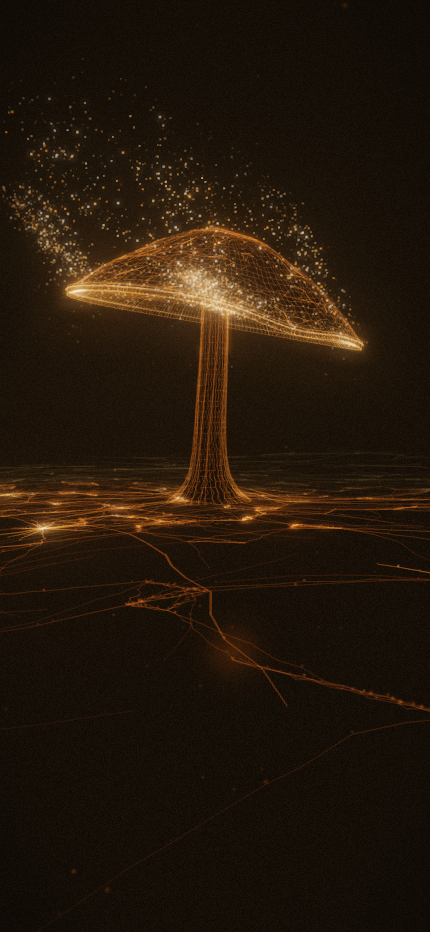
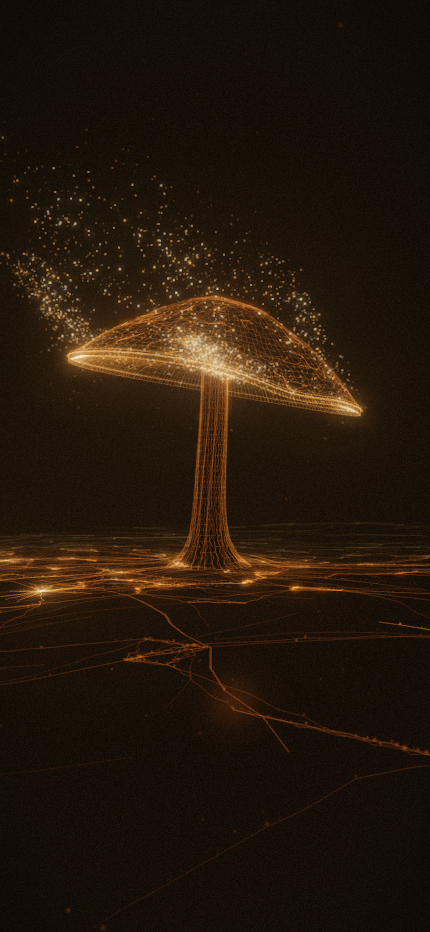
Inspire: the band was never the viewport, it was the nav and the headline
Hannah, on the framing ca7a769 shipped: push the mushroom down a bit so the
page feels more balanced, use your vision to judge where.

D19's construction was right and its ANCHORS were wrong. It centred the cap
between y 0 — the top of the viewport — and y 608.4 — the top of the copy
block's PADDING box. Neither is a thing a viewer can see. The page draws a
nav whose lowest element bottoms at 66.1, and the copy's first visible mark
is the headline glyph at 641.0 (the h2's rect starts at 634.0; the 7.0 px is
the font's internal leading). Both errors pushed the midpoint the same way,
so they added. Anchored to what the page draws the band is [66.1, 641.0],
its midpoint is 353.6, and that is 49.3 px below where the cap was. Not a
taste correction on top of a rule — the same rule with its inputs read off
the rendered frame instead of off the CSS. The check that the band is right:
the frame's two voids come out equal to a tenth of a pixel, 179.3 px of sky
above the cap and 179.4 px of dark between its rim and the headline.

Not further, and that was measured rather than assumed. The subject's
luminance-weighted centroid — mushroom and plume, everything above the
horizon — sits 61 px higher than the cap's bbox centre at every offset
tested, so centring the INK would want the cap at 414, sitting on the copy.
That criterion over-weights a diffuse scatter that deliberately spills off
the top edge. +30 / +50 / +70 / +90 were all read on screen: +90 leaves 139
[…]

Changed region(s): [[0.0, 0.1245, 1.0, 0.809], [0.7256, 0.7468, 1.0, 0.809], [0.3023, 0.1556, 0.3326, 0.1867]]

diff --git a/journey/chapters/inspire/camera.js b/journey/chapters/inspire/camera.js
@@ -109,9 +109,37 @@ const V = (x, y, z) => new THREE.Vector3(x, y, z);
 // 1.00 / 0.21 / 0.19.
 //
 // The target is the exact solve, not a hand-nudge: a 2x2 Newton on the gaze's
-// (right, up) offsets against the projected cap silhouette's bbox centre,
-// converged to 0.0 px horizontal / 0.1 px vertical at 1440x900.
-export const INSPIRE = { az: 115 * DEG, r: 11, y: 2, target: V(2.3349, 2.0903, -1.1016), fov: 40 };
+// (right, up) offsets against the projected cap silhouette's bbox centre.
+//
+// D21 (Hannah, 2026-08-07): "for the inspire section, can you push the
+// mushroom down a bit so the page feels more balanced." D19's construction was
+// right and its ANCHORS were wrong. It centred the cap between the top of the
+// VIEWPORT (y 0) and the top of the copy BLOCK (y 608.4, which is the block's
+// padding box, not its text). Neither edge is a thing a viewer sees. What a
+// viewer sees is the nav — logo / links / pills, bottom edge y 66.1 — and the
+// first glyph of the headline, whose cap-height top is y 641.0 (the h2's rect
+// starts at 634.0; the 7.0 px is the font's internal leading, and it scales
+// with font-size: 0.1568 x fs, which is how the other viewports are derived).
+// Anchored to the furniture the page actually draws, the band is [66.1, 641.0]
+// and its midpoint is 353.5 — 49.3 px below where D19 put the cap. Same rule,
+// honest anchors, and the frame's two voids come out EQUAL: 179.4 px of sky
+// above the cap, 179.4 px of dark between the cap's rim and the headline.
+//
+// WHY NOT FURTHER, even though the plume is all above the cap. The subject's
+// luminance-weighted centroid (mushroom + plume, everything above the horizon)
+// sits 61 px HIGHER than the cap's bbox centre at every offset tested, so
+// centring the INK rather than the head would want the cap at y 414 — sitting
+// on the headline. Measured at +30 / +50 / +70 / +90 px and read on screen:
+// +90 crowds the copy (139 px of clearance) and shortens the stipe to nothing,
+// +70 inverts the two voids (200 above / 159 below). The plume is context that
+// deliberately spills off the top edge; the head is the subject. Anchor the
+// head, and let the plume be air.
+//
+// IT ALSO REPAYS SOME OF D19's GROUND. Aiming higher pitches the horizon back
+// DOWN the frame: 463.3 -> 511.7 at 1440x900, recovering 48 of the 170 px D19
+// spent, and the lower-band mean luminance falls 24.80 -> 24.62. Light lost
+// off the top edge falls with it (mean of rows 0-3: 18.39 -> 16.63).
+export const INSPIRE = { az: 115 * DEG, r: 11, y: 2, target: V(2.3371, 2.4199, -1.1052), fov: 40 };
 
 // The gaze's mid-swing waypoint (was the old "early pin" target): the cap,
 // biased a touch toward the stream side so the visible plume never leaves
@@ -318,9 +346,37 @@ export const CAMERA = {
   // rises 63. That is forced — the approved Inspire rest frames it at
   // y 328 and settled Connect k1 at y 341 — so the vertical turns once, at
   // Connect's own key, and nothing here can remove it without moving a rest.
+  //
+  // ------------------------------------------------------------------
+  // D21 RE-DERIVE (2026-08-07, Hannah: "push the mushroom down a bit so the
+  // page feels more balanced").
+  // ------------------------------------------------------------------
+  // Only the rest's GAZE moved again, so the same thing is true as at D19:
+  // a keyed spline does not care why an endpoint moved. Both exit keys are
+  // re-derived from the D20 rule above with the new rest, and NOTHING ELSE
+  // changes — every `pos` is byte-identical for the third re-key running,
+  // `d` stays 8.55 / 8.69 (the ladder rebases to 8.4253 -> 8.55 -> 8.69 ->
+  // 8.788 and rounds to the same digits), and both `fov` values are
+  // untouched at 41.63 / 44.49 because fov = lerp(40, 48, s) never read the
+  // rest's gaze. Only `dy` moves, and only because the rest's own dy did:
+  //
+  //   dx  rest -0.079 -> -0.095   (the cap is still on the frame centreline)
+  //   dy  rest +5.354 -> +3.112   (the cap now sits lower in the rest frame)
+  //
+  // The decode was re-proved before it was re-used: running the rule on the
+  // SHIPPED rest reproduces the shipped key targets to all four decimals
+  // (2.0571 / 2.1443 / -0.8376 and 1.2152 / 2.2287 / -0.8497), and the
+  // connect-side endpoint comes back at -12.3239 / +6.0850 against the
+  // -12.324 / 6.085 written above.
+  //
+  // A RESIDUAL D20 RECORDED AS FORCED IS NOW GONE. D20 had to accept that
+  // the cap SINKS ~13 px before it rises, because the approved rest framed
+  // it above Connect's settled first key and the vertical had to turn once.
+  // The rest is now BELOW Connect's key, so dy climbs 3.112 -> 6.085 with
+  // nothing to unwind: the cap rises monotonically across the whole leg.
   keys: [
-    { t: 0.5,                pos: V(9.9694, 2.0000, -4.6488), tgt: V(2.3349, 2.0903, -1.1016), fov: 40,    hold: true, note: 'inspire-rest' },  // p 0.260  az 115.0  d 8.42  dx  -0.08
-    { t: 0.7166666666666667, pos: V(10.4866, 2.2495, -2.2641), tgt: V(2.0571, 2.1443, -0.8376), fov: 41.63, note: 'inspire-rest-drift' },       // p 0.312  az 102.2  d 8.55  dx  -2.58  yaw -80.4
-    { t: 0.9249999999999999, pos: V(9.5128, 2.6825, 1.6920), tgt: V(1.2152, 2.2287, -0.8497), fov: 44.49 },                                     // p 0.362  az  79.9  d 8.69  dx  -6.95  yaw -107.0
+    { t: 0.5,                pos: V(9.9694, 2.0000, -4.6488), tgt: V(2.3371, 2.4199, -1.1052), fov: 40,    hold: true, note: 'inspire-rest' },  // p 0.260  az 115.0  d 8.43  dx  -0.10  dy +3.11
+    { t: 0.7166666666666667, pos: V(10.4866, 2.2495, -2.2641), tgt: V(2.0576, 2.4106, -0.8396), fov: 41.63, note: 'inspire-rest-drift' },       // p 0.312  az 102.2  d 8.55  dx  -2.59  dy +3.72  yaw -80.4
+    { t: 0.9249999999999999, pos: V(9.5128, 2.6825, 1.6920), tgt: V(1.2093, 2.3779, -0.8526), fov: 44.49 },                                     // p 0.362  az  79.9  d 8.69  dx  -6.95  dy +4.78  yaw -107.0
   ],
 };

diff --git a/journey/portrait.js b/journey/portrait.js
@@ -109,7 +109,30 @@ const KEYS = [
   // evenly, +23.8 px at 375x812 and -23.8 px at 430x932, which is the smallest
   // worst case available to a single pose. tgtRight comes back a hair,
   // 0.30 -> 0.258, for the 2.8 px the cap sat left of the copy's centre.
-  { p: 0.260, back: 1.50, rise: -0.50, truck: -0.30, tgtUp: -1.378, tgtRight: 0.258, fov: 13 },
+  //
+  // D21 (2026-08-07) re-anchors the landscape band to the furniture the page
+  // actually draws — nav bottom to headline glyph top, not viewport top to the
+  // copy block's padding — and pushes the cap 49.3 px down. Portrait inherits
+  // the landscape target, so it moved down by itself and this offset has to
+  // come back up to meet the SAME re-anchored band in the tall frames.
+  //
+  // The portrait band is NOT the landscape one scaled. Its bottom is the
+  // headline's first glyph, read off the rendered frame: y 489.0 at 375x812
+  // and 659.0 at 430x932. Its top is y 93.1 in BOTH — and it is the active
+  // nav link's underline, not the pills. The nav stacks in portrait (pills on
+  // top at 49.7, links below at 85.1) where it is one row in landscape, so the
+  // lowest thing the nav draws is the 1 px rule the `.active` ::after hangs
+  // 8 px under its link. In landscape the same rule sits at 64.6, above the
+  // pills' 66.1, and the pills win. Midpoints: 291.05 and 376.05.
+  //
+  // Balanced the same way and by the same argument, tgtUp -1.378 -> -0.856:
+  // +19.5 px at 375x812 and -19.6 px at 430x932. That is a SMALLER worst case
+  // than the pose it replaces (±23.8), which is the one piece of luck in this
+  // edit — the two phone sizes' band midpoints sit closer together in
+  // frame-fraction terms (0.358 vs 0.403) than their copy tops did (0.564 vs
+  // 0.674). tgtRight is untouched: the horizontal never moved, and the cap is
+  // still 187.17 / 214.62 against frame centres 187.5 / 215.
+  { p: 0.260, back: 1.50, rise: -0.50, truck: -0.30, tgtUp: -0.856, tgtRight: 0.258, fov: 13 },
 
   // Ground-descent approach (D16 restage; retuned 2026-08-04 for the
   // monotone Inspire->Connect zoom-out): the landscape leg no longer pushes

diff --git a/journey-v6-plan/07-chapter-inspire.md b/journey-v6-plan/07-chapter-inspire.md
@@ -1140,3 +1140,233 @@ The cap's screen track is now one migration with no pause anywhere:
   available to do it in. That is structural given both endpoints are fixed;
   it reads as a build rather than a lurch, but it is a change in character
   and Hannah should be the judge of it.
+
+---
+
+## 2026-08-07 (D21) — the same rule, anchored to furniture the page draws
+
+Hannah, on the framing `ca7a769` shipped: *"for the inspire section, can you
+push the mushroom down a bit so the page feels more balanced — use your vision
+to judge where."*
+
+### What was wrong with D19, precisely
+
+D19's construction was right and its **anchors** were wrong. It centred the cap
+between **y 0** — the top of the viewport — and **y 608.4** — the top of the
+copy block's *padding box*. Neither of those is a thing a viewer can see. The
+page draws a nav across the top whose lowest element (the `2RP` / `Discord`
+pills) bottoms at **y 66.1**, and the copy's first visible mark is the headline
+glyph, whose cap-height top is **y 641.0** — the `h2`'s rect starts at 634.0 and
+the 7.0 px is the font's internal leading. So D19 centred the cap in a band with
+66 px of invisible furniture stapled to its top and 33 px of invisible padding
+stapled to its bottom, and the two errors did not cancel: they both pushed the
+midpoint up.
+
+Anchored to what the page draws, the band is **[66.1, 641.0]** and its midpoint
+is **353.6**, which is **49.3 px below** where D19 put the cap. That is the
+whole change. It is not a taste correction applied on top of a rule; it is the
+same rule with its inputs read off the rendered frame instead of off the CSS.
+
+The check that it is the right band: at the new pose the frame's two voids come
+out **equal to a tenth of a pixel** — 179.3 px of sky between the nav and the
+top of the cap, 179.4 px of dark between the cap's rim and the headline.
+
+### Why not further, even though all the plume is above the cap
+
+Measured, not assumed. The subject's luminance-weighted centroid — mushroom and
+plume together, everything above the geometric horizon, sky floor subtracted —
+sits **61 px higher than the cap's bbox centre at every offset tested**:
+
+| cap centre | 304.2 (D19) | 334.2 | **353.5** | 374.2 | 394.2 |
+|---|---|---|---|---|---|
+| subject ink centroid | 252.0 | 275.4 | **292.1** | 309.2 | 326.5 |
+| void above cap (from nav) | 129.2 | 159.8 | **179.3** | 200.3 | 220.5 |
+| void below cap (to glyph) | 227.8 | 198.4 | **179.4** | 158.9 | 139.1 |
+
+Centring the **ink** rather than the head would want the cap at y 414 — sitting
+on the headline. That criterion over-weights a diffuse low-contrast scatter that
+deliberately spills off the top edge. Hannah's language in D19 and again here is
+about *the mushroom* and *the head*; the plume is context. Anchor the head, and
+let the plume be the air.
+
+The four offsets above were also read on screen at 1440x900, which is what
+settled it. **+90** crowds the copy — 139 px of clearance and a stipe with
+nothing left of it. **+70** inverts the two voids, 200 above against 159 below,
+and reads bottom-heavy in exactly the way D19 read top-heavy. **+30** is a real
+improvement and still leaves the cap's void the largest single empty area in the
+frame. **+49.3** is where the two voids cross.
+
+### The pose
+
+```js
+export const INSPIRE = { az: 115 * DEG, r: 11, y: 2, target: V(2.3371, 2.4199, -1.1052), fov: 40 };
+```
+
+**`az`, `r`, `y` and `fov` are the shipped values to the digit for the third
+re-key running.** The eye does not move; it looks somewhere else. That is not
+economy, it is the safety argument, and here it is measured rather than argued:
+over p 0..0.60, **max |Δ camera azimuth| is exactly 0 and max |Δ position| is
+exactly 0** in landscape, on a 601-sample full-precision row. The Inspire reveal
+drive and the 34-deg arming gate are functions of camera azimuth alone
+(`index.js camAzDeg` reads `position.x/z`), so the reveals are bit-identical and
+the particle-continuity troughs closed in `b2c9584` cannot move. There is no
+sweep to report because there is no difference to resolve.
+
+**Correction to D20's blanket claim.** D20 wrote "every `pos` is byte-identical"
+without qualification. That is true in landscape and **false in portrait**: the
+portrait field dollies about the *landscape target* (`portrait.js applyPortrait`:
+`pos = target - fwd * back`), so moving the target moves the portrait eye.
+Measured here: **max |Δ az| 0.0052 deg, max |Δ pos| 0.165** world units, almost
+all of it along the view axis. The reveal ramps are `sm(…)` on `camAzDeg` with
+slope 1/30 per degree, so 0.0052 deg moves any reveal channel by **≤1.7e-4**,
+and the 34-deg arming gate is crossed at hundreds of deg per unit p. Negligible,
+but it should have said so, and D19 had the same exposure unrecorded.
+
+### Composition, measured
+
+Landscape is **fitted** to 1440x900, the primary review size. Portrait is
+**balanced** between the two phone sizes, because one pose cannot serve both.
+
+| viewport | nav bottom | headline glyph top | band midpoint | cap centre | dx | dy |
+|---|---|---|---|---|---|---|
+| 1440x900 | 66.1 | 641.0 | (720.0, 353.6) | (720.0, 353.5) | **+0.0** | **-0.1** |
+| 1280x800 | 66.1 | 553.0 | (640.0, 309.6) | (640.0, 314.2) | **+0.0** | **+4.7** |
+| 375x812 (portrait) | 93.1 | 489.0 | (187.5, 291.1) | (187.2, 310.6) | **-0.3** | **+19.5** |
+| 430x932 (portrait) | 93.1 | 659.0 | (215.0, 376.1) | (214.6, 356.5) | **-0.4** | **-19.6** |
+
+Every glyph top in that table is read off the rendered PNG (first row in the
+copy column with text-bright pixels), not computed: 641 / 553 / 489 / 659. The
+1280x800 and 375x812 frames were shot for the purpose through a scratch harness
+that appends to `capture.py`'s `SIZES` at import time — the shipped tool is not
+edited and its two golden sizes are unchanged.
+
+**The portrait band's top is not the landscape band's top.** It is y 93.1 in
+both phone frames, and it is the **active nav link's underline**, not the pills.
+The nav stacks in portrait — pills on top ending at 49.7, links below ending at
+85.1, and the 1 px `.active::after` rule hangs 8 px under its link. In landscape
+the same rule sits at 64.6 and the pills' 66.1 wins. Reading "the bottom of the
+nav" off one orientation and reusing the number in the other would have been
+wrong by 27 px.
+
+Portrait residuals are ±19.6, **better than the ±23.8 D19 balanced to**. That is
+luck rather than skill: the two phone sizes' band midpoints happen to sit closer
+together as a fraction of frame height (0.358 vs 0.403) than their copy-block
+tops did (0.564 vs 0.674). `tgtRight` is untouched — nothing horizontal moved.
+
+### The exit keys, re-derived from the D20 rule
+
+Only the rest's gaze moved, and a keyed spline does not care why an endpoint
+moved. Both exit keys are re-derived from the rule D20 authored, with the new
+rest. **The decode was re-proved before it was re-used**: run on the *shipped*
+rest it reproduces the shipped key targets to all four decimals — `2.0571 /
+2.1443 / -0.8376` and `1.2152 / 2.2287 / -0.8497` — and the Connect endpoint
+comes back at `-12.3239 / +6.0850` against the `-12.324 / 6.085` written into
+the file. Only then was the new rest fed in.
+
+| key | before | after |
+|---|---|---|
+| rest p 0.260 | dx -0.079, dy **+5.354** | dx **-0.095**, dy **+3.112** |
+| drift p 0.312 | tgt (2.0571, 2.1443, -0.8376) | tgt **(2.0576, 2.4106, -0.8396)** |
+| exit p 0.362 | tgt (1.2152, 2.2287, -0.8497) | tgt **(1.2093, 2.3779, -0.8526)** |
+
+Everything else is untouched, and deliberately so: every `pos` is byte-identical,
+both `fov` values stay at 41.63 / 44.49 (fov is `lerp(40, 48, s)` and never read
+the rest's gaze), and the distance ladder rebases to 8.4253 -> 8.55 -> 8.69 ->
+8.788 — **the same digits it already carried**.
+
+**A residual D20 recorded as forced is now gone.** D20 had to accept that the cap
+*sinks ~13 px before it rises 63*, because the approved rest framed it above
+Connect's settled first key and the vertical had to turn once. The rest now sits
+**below** Connect's key, so `dy` climbs 3.112 -> 6.085 with nothing to unwind.
+Measured over the leg at 1440x900: **vertical backtrack 8.64 px -> 0.00, sign
+flips 3 -> 0.** The cap rises monotonically from the rest to the Connect rest.
+
+### Gates
+
+All figures from one instrument — a drift-aware scrub of `director.poseAt` (pure
+in p and aspect), cap-rim silhouette bbox centre, tree swapped between runs so
+before and after are like for like.
+
+- **Reveal continuity.** Landscape `camAz(p)` and `pos(p)` differ by **exactly
+  0** over p 0..0.60. Nothing that reads them can have moved. Portrait differs
+  by 0.0052 deg / ≤1.7e-4 of a reveal channel (above).
+- **Leg, p 0.26–0.49.** Screen-x backtrack **0.00 px, 0 sign flips** in both
+  aspects, unchanged from D20. Screen-y backtrack **8.64 -> 0.00 px, 3 -> 0
+  flips** landscape; portrait 4.47 -> 6.59 px, 2 -> 2 flips (the pre-existing
+  `tgtUp`-ramp wobble D20 recorded, sub-pixel at fov 53). Slowest mid-leg sweep
+  31.3 -> 31.1 px/p, peak 2925 -> 2923. Distance re-approach 0.0694 -> 0.0710
+  landscape (0.02% of 8.5), 0.0275 -> **0.0248** portrait.
+- **Rate + roll**, 601-sample, p 0..0.60, Mission->Inspire->Connect. Composed
+  rotation peak **766.0 -> 763.1 deg/unit-p landscape** and **761.9 -> 758.2
+  portrait**, both still at p 0.221 in the arrival gesture, both **improved**,
+  both far under the ~1.2k ceiling. **Max roll 0.000000 deg** in both aspects.
+  Leg-only peak 596.4 -> 598.3 landscape, 576.6 -> 579.7 portrait.
+- **Arrival reversals unchanged.** The single vertical turn in the arrival stays
+  a single turn, landscape 1 -> 1 flip (moving p 0.14 -> 0.166); portrait 2 -> 2.
+  Nothing new was introduced, the existing one just lands lower.
+- **Reverse mirrors exactly.** Forward vs reverse over the full ride, 201
+  points: **max position, target and fov error all 0.00e+0** in both aspects.
+  (`poseAt` is pure; D20's 8.28e-4 fov figure was the director's `apply()` write
+  deadband, which this does not touch.)
+- **Nothing fades in over open view.** No opacity or reveal schedule was edited:
+  the diff is four `tgt` vectors and one portrait `tgtUp`.
+- **Three streams still read, and read better.** Share of each braid's vertices
+  passing off the frame edge: **0 / 10.00 / 0.83 % -> 0 / 5.83 / 0.00 %** —
+  strictly better on all three, which is the direct consequence of aiming
+  higher. Inter-braid screen separations 99.0 / 207.5 -> **98.7 / 206.4 px**
+  (-0.3% / -0.5%). All three release lips stay in frame and their facing is
+  unchanged at 1.00 / 0.21 / 0.19 **by construction** — facing depends only on
+  where the eye is, and the eye did not move.
+- **Chips clear the copy.** At 1440x900 the three land at y 161-185 (ArtCompute),
+  233-256 (Arca Gidan Prize) and 274-297 (2RP), against a copy block starting at
+  608 — clearances 423 / 352 / 311 px. No chip-to-chip overlap: x 333-501,
+  548-679, 892-955. Each dot still sits on its own braid. Portrait verified on
+  screen at both phone sizes.
+- **Console clean.** The two expected info lines per load (`[journey-lens]`,
+  `[journey-v6]`), zero application errors or warnings across a slow
+  Mission->Inspire->Connect scrub forward and backward. The one 404 in the log
+  is `/favicon.ico`, which the dev server has never served.
+- **`capture.py --check` PASS**, worst MAE **0.04/255** (owned mobile, its own
+  determinism noise). `mission` **0.00/0.00 — byte-identical, which the brief
+  requires**; `connect`, `owned`, `final` all 0.00. Only `inspire@1440x900` and
+  `inspire@430x932` were re-shot, with provenance in `manifest.json`.
+
+### What it gives back
+
+D19 spent the ground to lift the cap: the horizon ran 633 -> 463 and the lower
+band brightened 17%. Aiming higher pitches some of that back down the frame.
+
+| | D19 | D21 |
+|---|---|---|
+| horizon, 1440x900 | 463.3 | **511.7** |
+| horizon, 1280x800 | 411.8 | **454.8** |
+| lower-band mean luminance | 24.80 | **24.62** |
+| light off the top edge (mean of rows 0-3) | 18.39 | **16.63** |
+
+48 of the 170 px D19 spent come back, and the plume that was clipping at the top
+clips less. Neither was the reason for the change; both are why it is cheap.
+
+### Residual / open
+
+- **Connect's paths now become visible 0.024 of p later.** The camera-pure
+  resolve reads `forward.y`, and aiming higher delays it: `group.visible` flips
+  at **p 0.3500** against the shipped 0.3256 (measured live, 0.000625 steps).
+  Connect's own arrival is p-pure and does **not** move — the three fronts still
+  depart at 0.4006 / 0.4231 / 0.4469 to the digit — so the lead the `4146288`
+  restage bought, "the web must read as pre-existing before a strand of it is
+  lit", narrows from 0.075 to **0.051** of p. That is still comfortably above
+  the 0.035 that restage set as its own requirement, and the `connect` golden is
+  0.00/0.00, but it is now the binding constraint on ever starting Connect's
+  arrival earlier, and anyone who wants that budget should read this line first.
+- **It also FIXES a portrait violation nobody had noticed.** On the shipped
+  build the camera-pure resolve was **0.2982 at the portrait Inspire rest** —
+  not the "exactly 0 at the Inspire rest" the connect chapter's own header
+  claims. Only the arm gate (`amount > 0.003`, p 0.32) kept it off screen. The
+  new pose puts `forward.y` at +0.0217 there and the resolve back to exactly 0,
+  restoring the stated invariant.
+- **1280x800 sits +4.7 px low** and portrait ±19.6. Both are inherent: the
+  band's midpoint is not a fixed fraction of the frame, because the copy's
+  height in the frame depends on how its prose wraps. Both are better than the
+  residuals D19 left (+9.5 and ±23.8).
+- **The stipe still crosses the headline.** It always has; nothing here changes
+  it, and at this offset the crossing is slightly shorter than it was.
